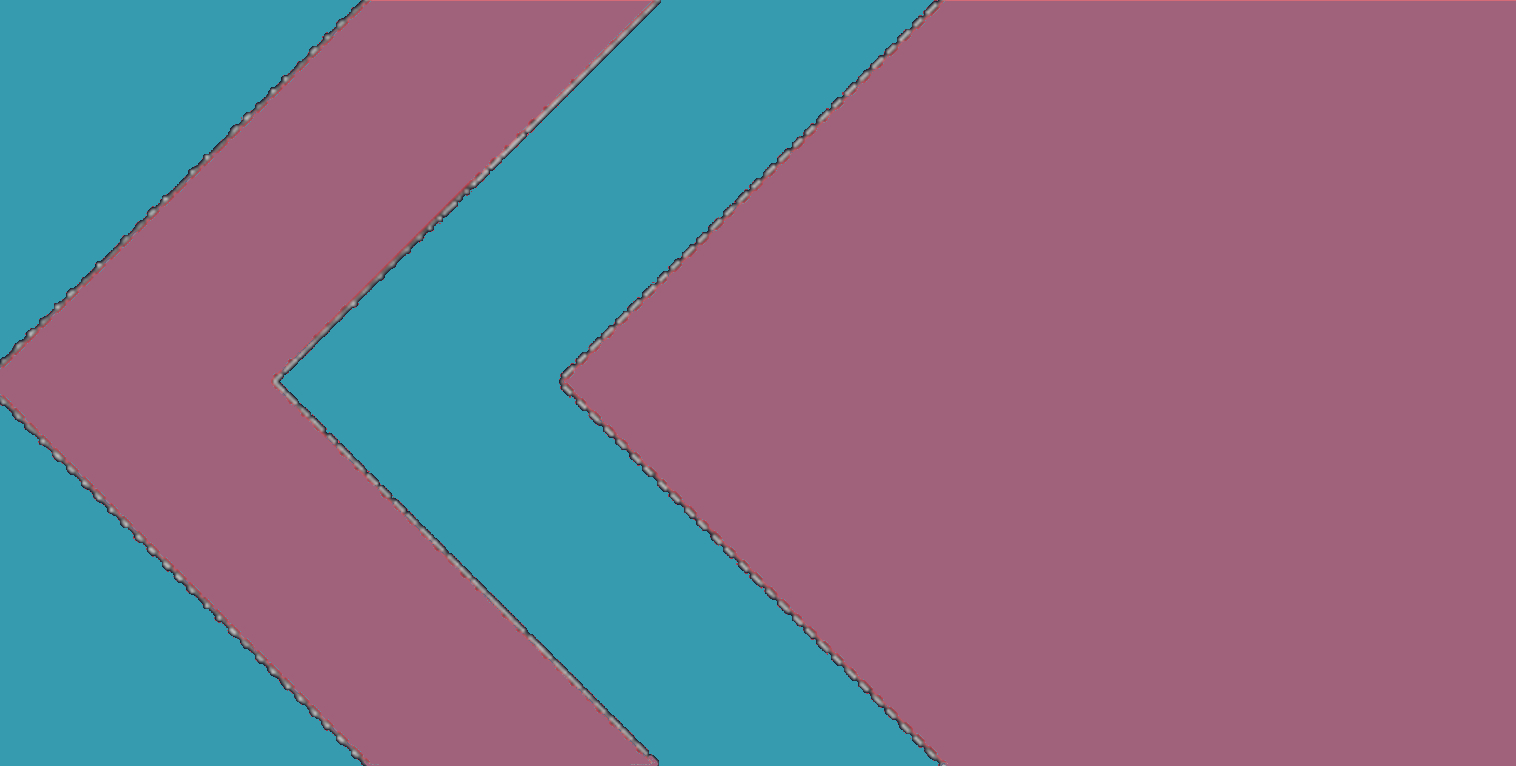
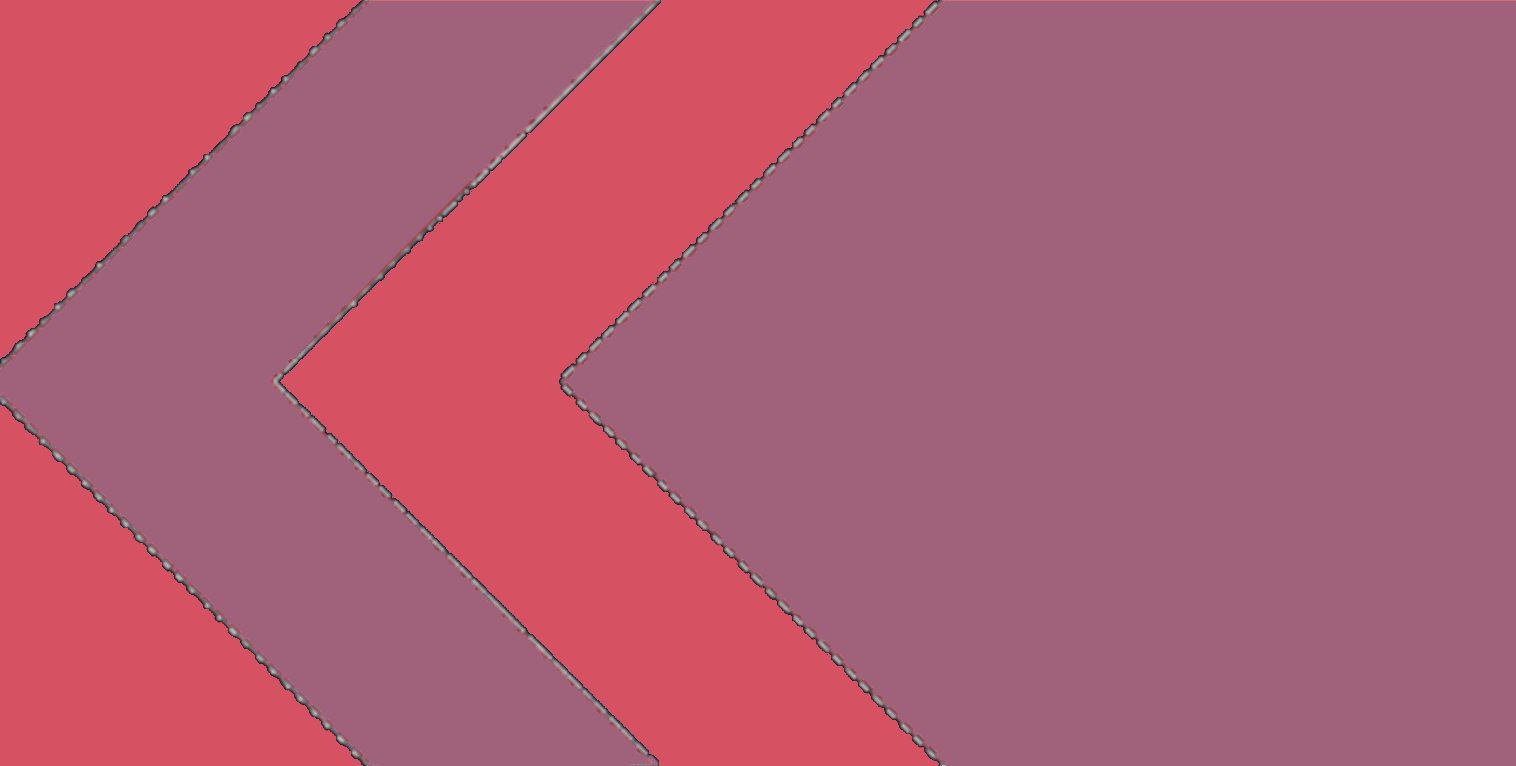
fixed low battery font color

Changed region(s): [[0.186, 0.0, 0.6201, 1.0], [0.0, 0.5405, 0.248, 1.0], [0.0, 0.0, 0.248, 0.4804]]

diff --git a/.config/qtile/config.py b/.config/qtile/config.py
@@ -186,6 +186,7 @@ screens = [
 			padding=2,
 		),
 		widget.Battery(
+			low_foreground=colors[2],
 			format='{percent:2.0%}',
 			background=colors[4],
 			foreground=colors[2],
@@ -204,39 +205,39 @@ screens = [
                         padding=5,
                 ),
 		widget.Image(
-			filename="~/.config/qtile/pictures/arrow-blue.jpg",
+			filename="~/.config/qtile/pictures/arrow-purple.jpg",
 		),
 		widget.TextBox(
 			text="Network ",
-			background=colors[5],
+			background=colors[3],
 			foreground=colors[2],
 		),
 		widget.Net(
 			format='{down} ↓↑ {up}',
-			background=colors[5],
+			background=colors[3],
 			foreground=colors[2],
 			padding=4,
 		),
 		widget.Image(
-			filename="~/.config/qtile/pictures/arrow-purple.jpg",
+			filename="~/.config/qtile/pictures/arrow-blue.jpg",
 		),
 		widget.TextBox(
 			text="🔊 ",
-			background=colors[3],
+			background=colors[5],
 			foreground=colors[2],
 		),
 		widget.Volume(
-			background=colors[3],
+			background=colors[5],
 			foreground=colors[2],
 			padding=2,
 		),
 		widget.TextBox(
 			text=" ☀",
-			background=colors[3],
+			background=colors[5],
 			foreground=colors[2],
 		),
 		widget.Backlight(
-			background=colors[3],
+			background=colors[5],
 			foreground=colors[2],
 			backlight_name="intel_backlight",
 			format='{percent: 2.0%}',
@@ -245,13 +246,13 @@ screens = [
 		widget.TextBox(
 			text=" ↻ ",
 			mouse_callbacks = {'Button1': lambda qtile: qtile.cmd_spawn("st" + ' -e sudo pacman -Syy')},
-			background=colors[3],
+			background=colors[5],
 			foreground=colors[2],
 		),
 		widget.CheckUpdates(
 			display_format='{updates}',
 			mouse_callbacks = {'Button1': lambda qtile: qtile.cmd_spawn("st" + ' -e sudo pacman -Syy')},
-			background=colors[3],
+			background=colors[5],
 			foreground=colors[2],
 			update_interval=1800,
 			padding=4,
